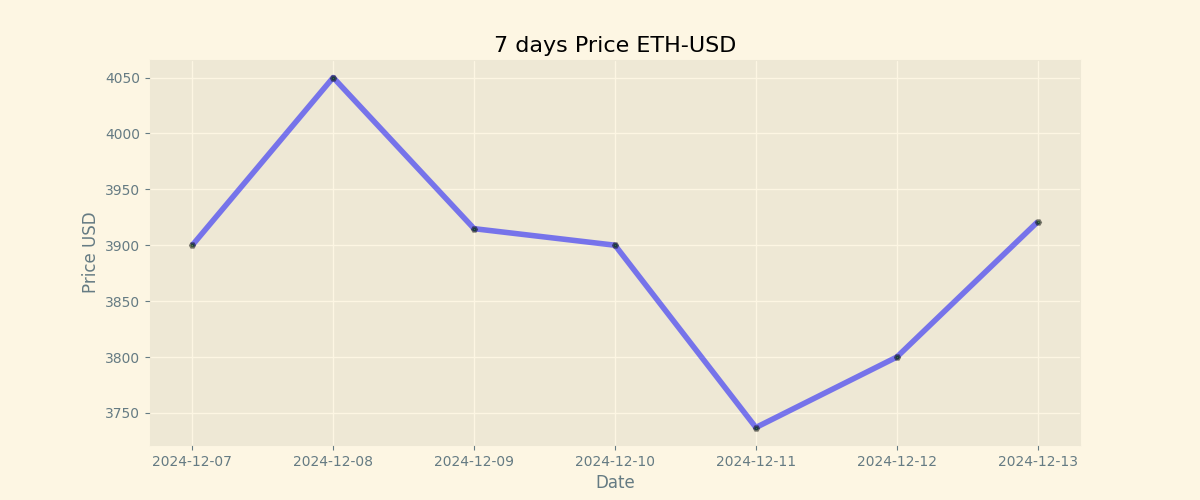
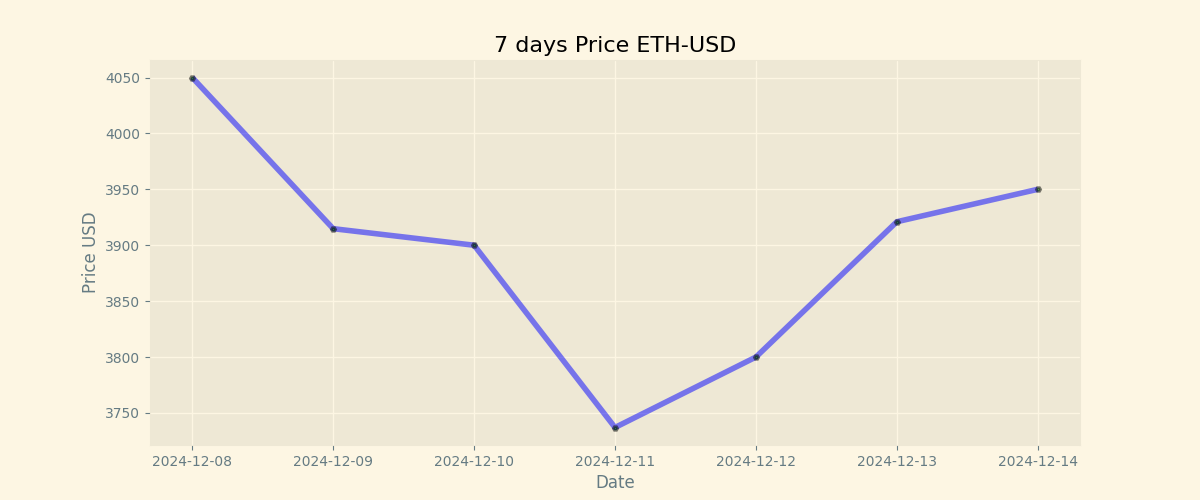
Duty Updates 2024-12-14

diff --git a/README.md b/README.md
@@ -9,8 +9,8 @@
 
 | Currency | Price           |
 | -------- | --------------- |
-| **BTC**  | **$ 96501.0** |
-| **ETH**  | **$ 3921.0** |
+| **BTC**  | **$ 99158.45** |
+| **ETH**  | **$ 3950.0** |
 
 ## BTC chart
 
